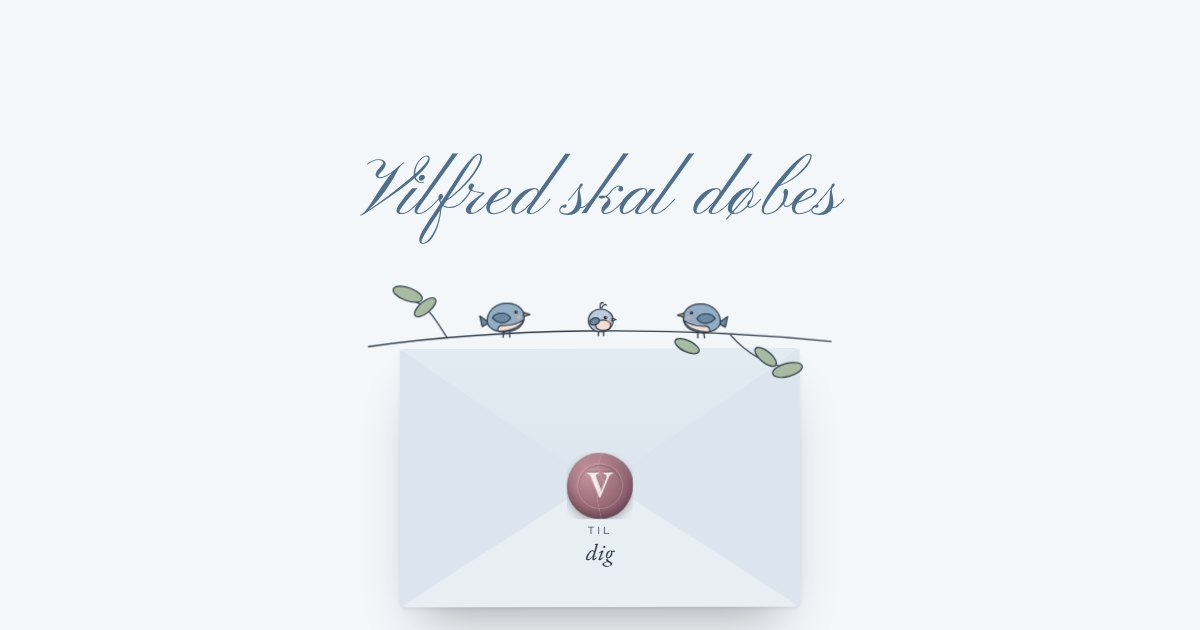
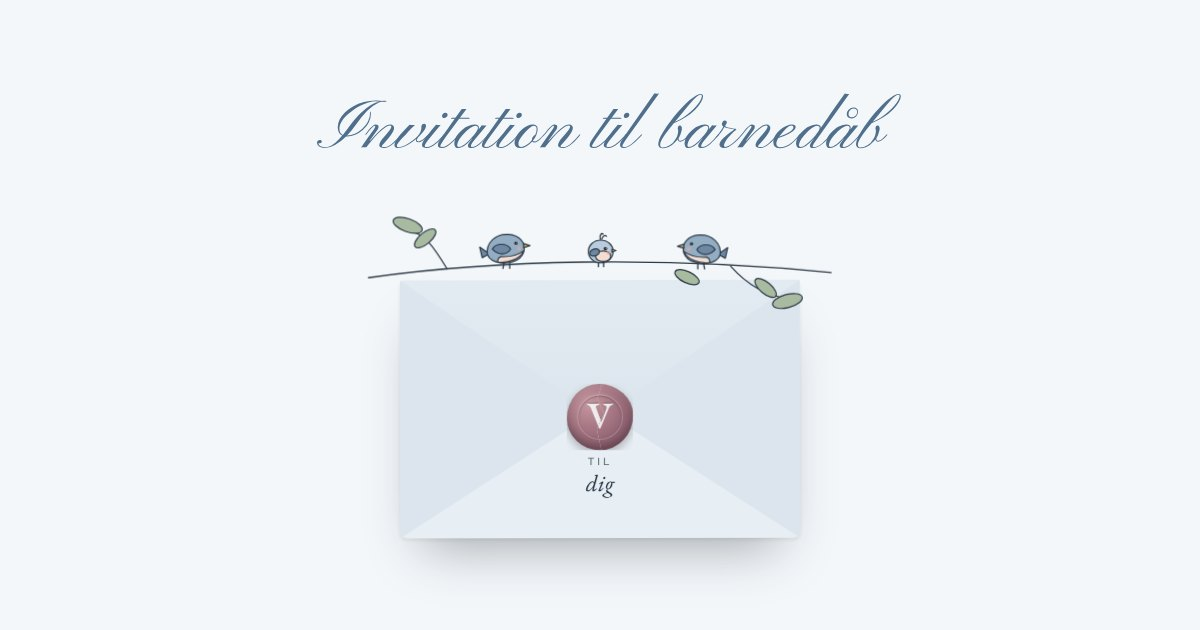
Billeder skifter ikke selv; link-forhåndsvisning: 'Invitation til barnedåb'
Claude-Session: https://claude.ai/code/session_01GFC5ykV8HRHKD1AgNA6E4Y

diff --git a/index.html b/index.html
@@ -6,9 +6,9 @@
 <meta name="robots" content="noindex, nofollow">
 <title>Vilfreds barnedåb</title>
 <meta name="description" content="Lørdag den 23. januar 2027 kl. 11.00 i Nathanaels Kirke">
-<meta property="og:title" content="Vilfred skal døbes">
+<meta property="og:title" content="Invitation til barnedåb">
 <meta property="og:description" content="Lørdag den 23. januar 2027 kl. 11.00 · Nathanaels Kirke · Åbn din invitation">
-<meta property="og:image" content="https://tragisk.github.io/vilfreds-daab/og.jpg">
+<meta property="og:image" content="https://tragisk.github.io/vilfreds-daab/og.jpg?v=2">
 <meta property="og:type" content="website">
 <meta name="theme-color" content="#F2F5F8">
 <link rel="icon" href="assets/favicon.svg" type="image/svg+xml">

diff --git a/assets/app.js b/assets/app.js
@@ -459,7 +459,7 @@
     },
     hold() { this.pauseUntil = Date.now() + 9000; },
     start() {
-      if (this.timer || reduce) return;
+      if (this.timer || reduce || !C.autoskift) return;
       this.timer = setInterval(() => {
         if (document.hidden || Date.now() < this.pauseUntil) return;
         this.set(this.cur + 1);

diff --git a/assets/config.js b/assets/config.js
@@ -13,6 +13,9 @@ window.DAAB = {
   svarFrist: "15. december",
   oenskesky: "https://onskeskyen.dk/s/exfm9p",
 
+  // Skal billederne under "Lidt om mig" skifte af sig selv? (false = kun når man bladrer)
+  autoskift: false,
+
   // Lyd (0 = slukket, 1 = fuld styrke)
   lydstyrke: 0.15,
 
